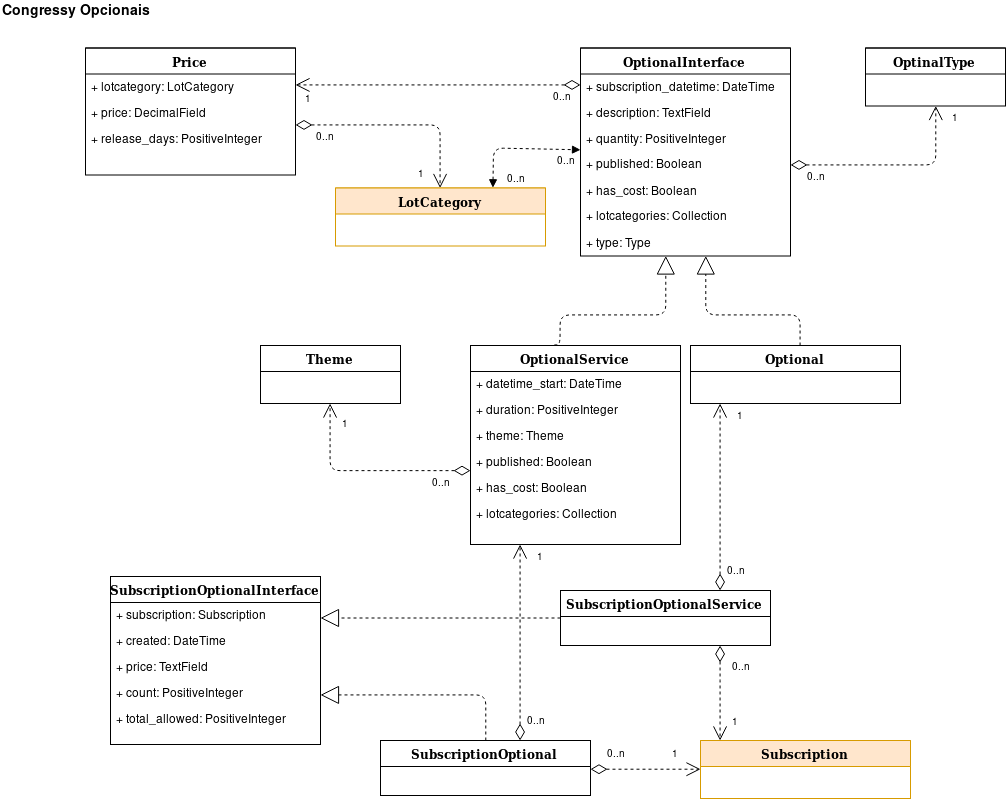
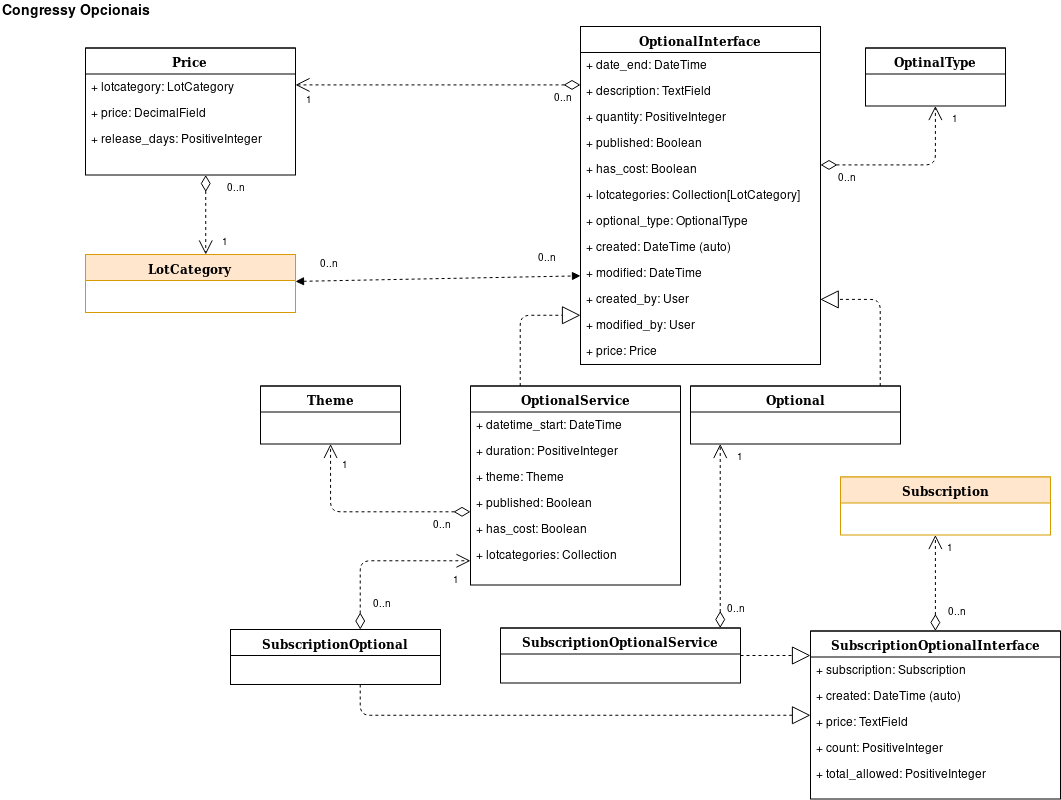
Opcionais: Modelos de dominio completos

diff --git a/addon/models/optional_interface.py b/addon/models/optional_interface.py
@@ -2,14 +2,15 @@
     Representação da interface de opcionais(add ons)
 """
 
+from django.contrib.auth.models import User
 from django.db import models
+
 from gatheros_subscription.models import LotCategory
 from .optional_type import OptionalType
-
+from .price import Price
 
 class OptionalInterface(models.Model):
-
-    subscription_datetime = models.DateTimeField()
+    date_end = models.DateTimeField()
 
     description = models.TextField()
 
@@ -24,4 +25,24 @@ class OptionalInterface(models.Model):
     optional_type = models.ForeignKey(
         OptionalType,
         on_delete=models.DO_NOTHING,
+        blank=True,
+        null=True,
     )
+
+    price = models.ForeignKey(
+        Price,
+        on_delete=models.DO_NOTHING,
+        blank=True,
+        null=True,
+    )
+
+    datetime_created = models.DateTimeField(
+        auto_now_add=True
+    )
+
+    datetime_modified = models.DateTimeField(
+        auto_now=True
+    )
+
+    created_by = models.ForeignKey(User, null=True, editable=False)
+    modified_by = models.ForeignKey(User, null=True, editable=False)

diff --git a/addon/models/optional_service.py b/addon/models/optional_service.py
@@ -1,0 +1,28 @@
+"""
+    Representação do serviços de opcional(add ons)
+"""
+
+from django.db import models
+
+from gatheros_subscription.models import LotCategory
+from .optional_interface import OptionalInterface
+from .theme import Theme
+
+
+class OptionalService(OptionalInterface):
+    datetime_start = models.DateTimeField()
+
+    duration = models.PositiveIntegerField()
+
+    published = models.BooleanField()
+
+    has_cost = models.BooleanField()
+
+    lot_categories = models.ManyToManyField(LotCategory)
+
+    theme = models.ForeignKey(
+        Theme,
+        on_delete=models.DO_NOTHING,
+        blank=True,
+        null=True,
+    )

diff --git a/addon/models/subscription_optional.py b/addon/models/subscription_optional.py
@@ -2,8 +2,14 @@
     Representação dos opcionais(add ons) de inscrições(subscriptions)
 """
 
+from django.db import models
+
+from .optional_service import OptionalService
 from .subscription_optional_interface import SubscriptionOptionalInterface
 
 
 class SubscriptionOptional(SubscriptionOptionalInterface):
-    pass
+    optional_service = models.ForeignKey(
+        OptionalService,
+        on_delete=models.DO_NOTHING,
+    )

diff --git a/addon/models/subscription_optional_service.py b/addon/models/subscription_optional_service.py
@@ -3,8 +3,14 @@
     subscriptions)
 """
 
+from django.db import models
+
+from .optional import Optional
 from .subscription_optional_interface import SubscriptionOptionalInterface
 
 
 class SubscriptionOptionalService(SubscriptionOptionalInterface):
-    pass
+    optional = models.ForeignKey(
+        Optional,
+        on_delete=models.DO_NOTHING,
+    )

diff --git a/addon/models/subscription_optional_interface.py b/addon/models/subscription_optional_interface.py
@@ -12,7 +12,7 @@ class SubscriptionOptionalInterface(models.Model):
 
     subscription = models.ForeignKey(
         Subscription,
-        on_delete=models.DO_NOTHING,
+        on_delete=models.CASCADE,
     )
     created = models.DateTimeField()
     price = models.TextField()

diff --git a/addon/models/optional.py b/addon/models/optional.py
@@ -2,8 +2,8 @@
     Representação do opcional(add ons)
 """
 
-from django.db import models
+from .optional_interface import OptionalInterface
 
 
-class Optional(models.Model):
+class Optional(OptionalInterface):
     pass
